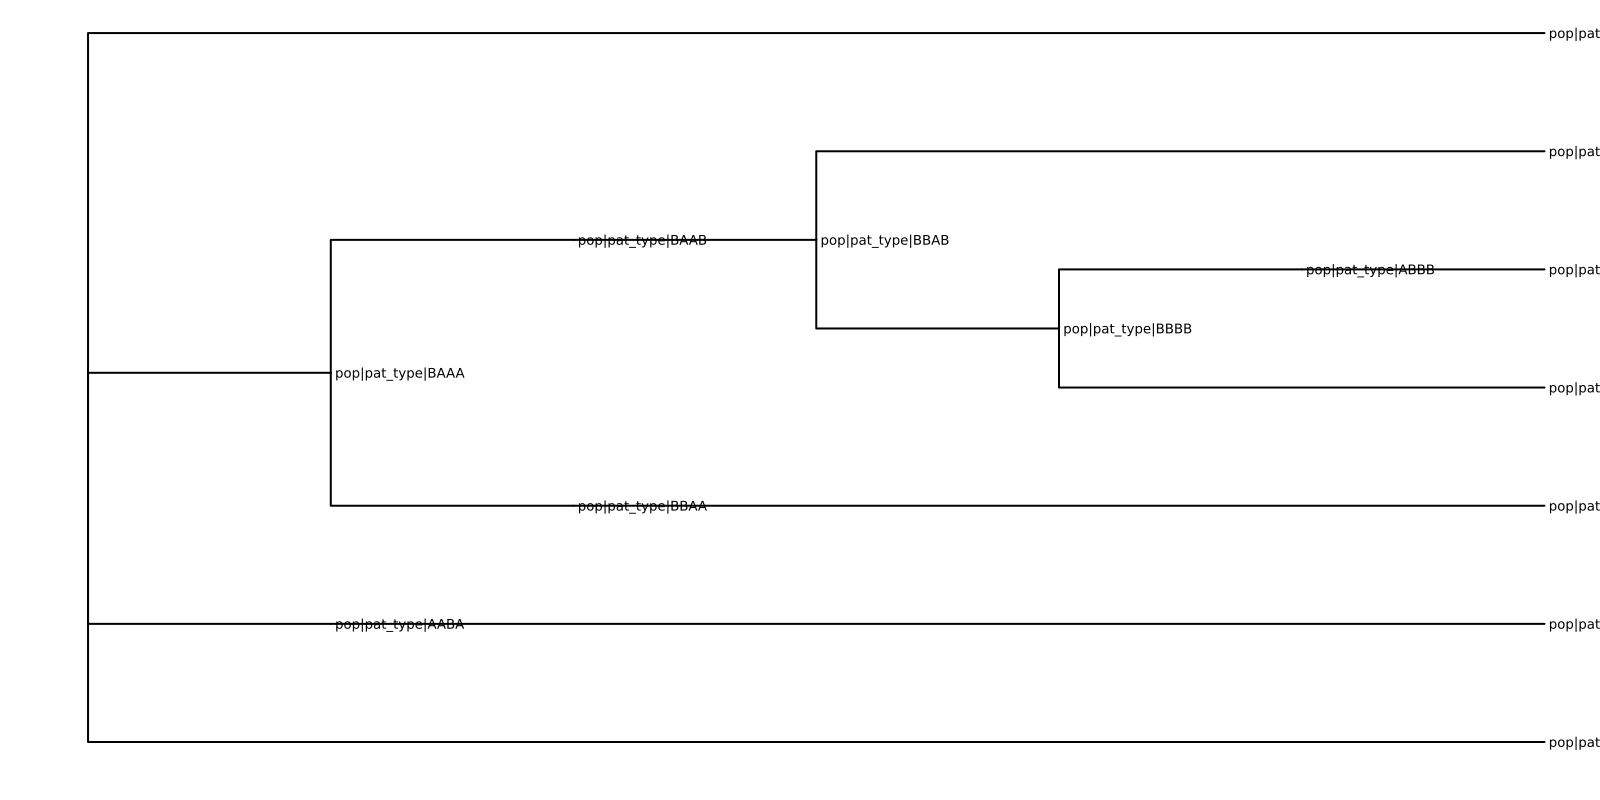
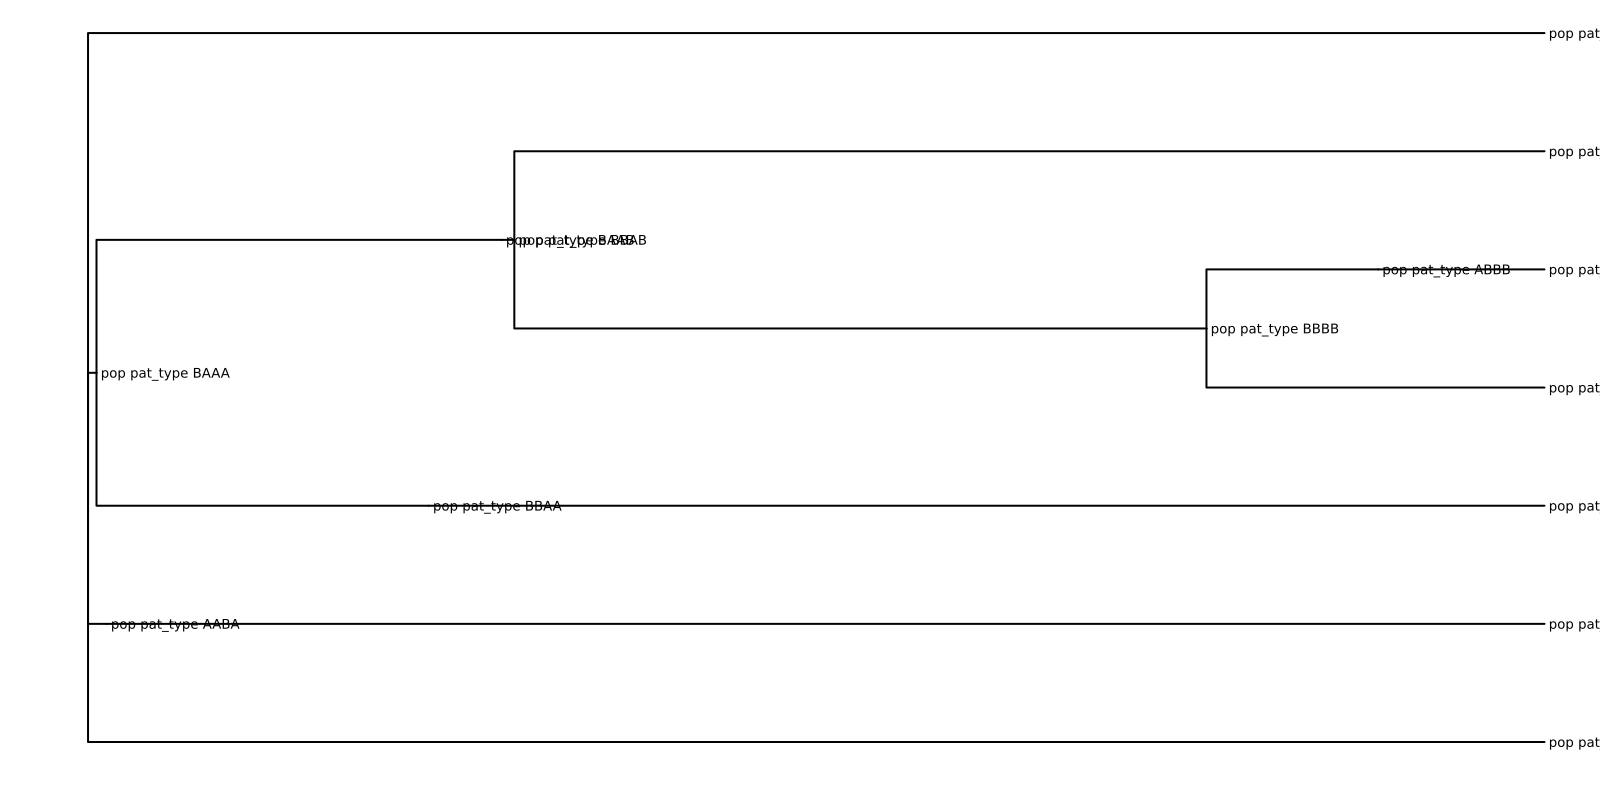
Added time of emergence to entities, newick output

diff --git a/changelog.md b/changelog.md
@@ -4,7 +4,6 @@ TODO:
 - Add response acquisition upon clearance as preferred alternative to response
 acquisition during infection (as in mutations upon infection vs. mutation
 establishment)
-- Add option for Newick to show real time rather than Hamming distance
 - Incorporate Flexle into all host sampling
 
 TODO: Not debugged:
@@ -15,6 +14,12 @@ TODO: Not debugged:
 - Birth
 - Death
 - Transition
+
+## 27 February 2025
+- Added `model.time`
+- Added parents to `Host`
+- Added `birth_time` to `Host`, `Response`, and `Pathogen`
+- Added option for Newick to show real time rather than Hamming distance
 
 ## 26 February 2025
 - Fixed bug where changes in contact receive weights were not correctly
